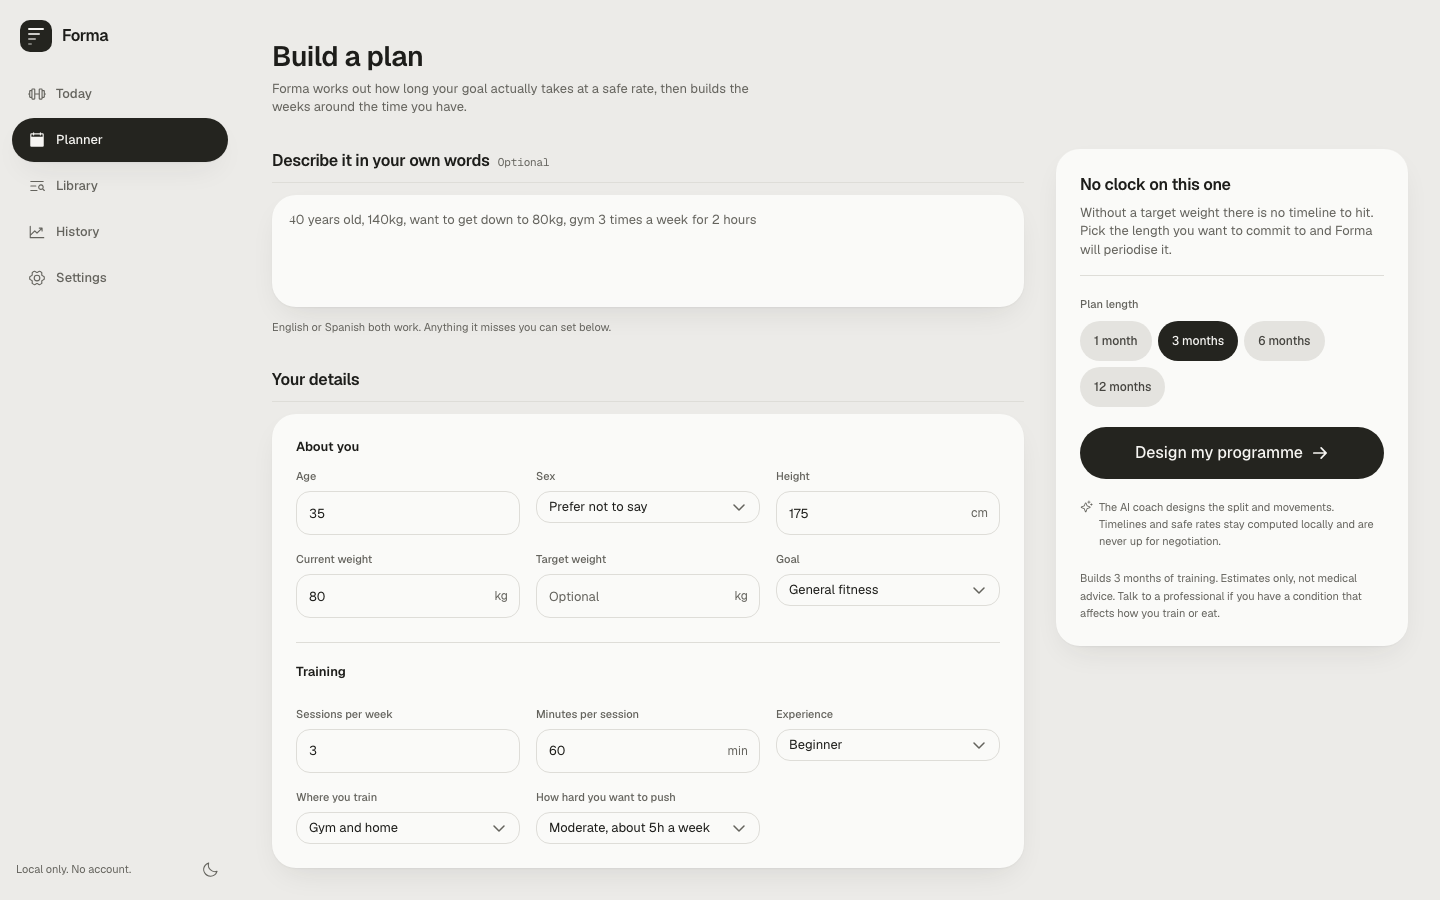
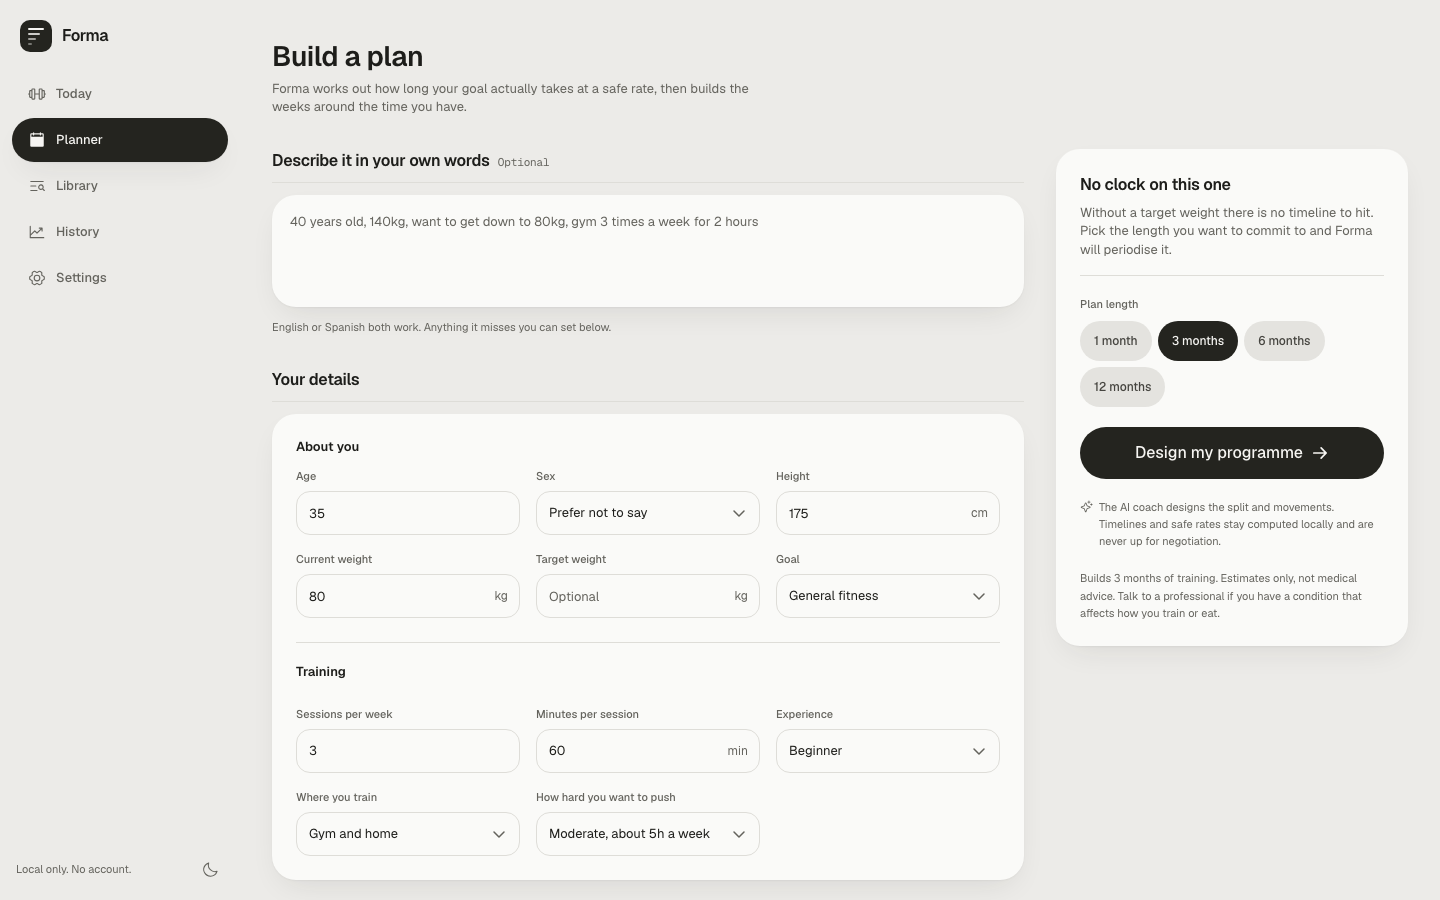
fix(forms): every control is 44px, measured; textarea glyph clipping cured
Measured with getBoundingClientRect instead of eyeballing: inputs were 44px
while every select rendered at 32px. The vendored select trigger carries
data-[size=default]:h-8, which the h-11 utility on FormSelect could not beat
(tailwind-merge does not merge across variant groups, and the data-variant rule
wins the cascade). Same story on the History picker's h-9 hack.

- The trigger's own sizes now follow the system scale: default 44px, sm 36px.
  FormSelect exposes a size prop instead of fighting with height classes, and
  History uses size="sm". Re-measured: every visible control on the form is
  exactly 44px. This also repairs the same input/select mismatch in Library's
  filter bar and the planner's configure dialog, everywhere selects appear.
- The select trigger also lost its divergent dark:bg-input background; selects
  and inputs now share the same surface in both themes.
- The describe textarea's first glyph sat at 0px from the card edge and
  subpixel-clipped ("male" losing the m's left stem). Text never touches an
  edge now (2px inset), and the vendored textarea's own focus ring and dark
  background are neutralised so the card's focus-within ring is the only one.

Verified at 2x mobile scale: first glyph intact, chips wrap cleanly, rows even.
tsc, oxlint, 43 tests, build and both audit walks pass.

diff --git a/src/components/ui/select.tsx b/src/components/ui/select.tsx
@@ -41,7 +41,7 @@ function SelectTrigger({
       data-slot="select-trigger"
       data-size={size}
       className={cn(
-        "flex w-fit items-center justify-between gap-1.5 rounded-md border border-line bg-surface py-2 pr-2 pl-3 text-sm whitespace-nowrap transition-colors outline-none select-none focus-visible:border-ring focus-visible:ring-3 focus-visible:ring-ring/50 disabled:cursor-not-allowed disabled:opacity-50 aria-invalid:border-destructive aria-invalid:ring-3 aria-invalid:ring-destructive/20 data-placeholder:text-muted-foreground data-[size=default]:h-8 data-[size=sm]:h-7 data-[size=sm]:rounded-md *:data-[slot=select-value]:line-clamp-1 *:data-[slot=select-value]:flex *:data-[slot=select-value]:items-center *:data-[slot=select-value]:gap-1.5 dark:bg-input/30 dark:hover:bg-input/50 dark:aria-invalid:border-destructive/50 dark:aria-invalid:ring-destructive/40 [&_svg]:pointer-events-none [&_svg]:shrink-0 [&_svg:not([class*='size-'])]:size-4",
+        "flex w-fit items-center justify-between gap-1.5 rounded-md border border-line bg-surface py-2 pr-2 pl-3 text-sm whitespace-nowrap transition-colors outline-none select-none focus-visible:border-ring focus-visible:ring-3 focus-visible:ring-ring/50 disabled:cursor-not-allowed disabled:opacity-50 aria-invalid:border-destructive aria-invalid:ring-3 aria-invalid:ring-destructive/20 data-placeholder:text-muted-foreground data-[size=default]:h-11 data-[size=sm]:h-9 data-[size=sm]:rounded-md *:data-[slot=select-value]:line-clamp-1 *:data-[slot=select-value]:flex *:data-[slot=select-value]:items-center *:data-[slot=select-value]:gap-1.5 dark:aria-invalid:border-destructive/50 dark:aria-invalid:ring-destructive/40 [&_svg]:pointer-events-none [&_svg]:shrink-0 [&_svg:not([class*='size-'])]:size-4",
         className
       )}
       {...props}

diff --git a/src/ui/FormSelect.tsx b/src/ui/FormSelect.tsx
@@ -18,6 +18,8 @@ interface FormSelectProps {
   label?: string
   placeholder?: string
   ariaLabel?: string
+  /** md matches Input (44px); sm matches the small button row (36px). */
+  size?: 'md' | 'sm'
   className?: string
   contentClassName?: string
 }
@@ -29,6 +31,7 @@ export function FormSelect({
   label,
   placeholder = 'Select',
   ariaLabel,
+  size = 'md',
   className,
   contentClassName,
 }: FormSelectProps) {
@@ -38,8 +41,9 @@ export function FormSelect({
     <ShadcnSelectRoot value={value || null} onValueChange={(v) => onValueChange(String(v ?? ''))}>
       <SelectTrigger
         aria-label={ariaLabel ?? label}
+        size={size === 'sm' ? 'sm' : 'default'}
         className={cn(
-          'h-11 w-full rounded-md border-line bg-surface px-3 text-sm text-ink',
+          'w-full rounded-md border-line bg-surface px-3 text-sm text-ink',
           'hover:border-line-strong focus:border-brand',
           className,
         )}

diff --git a/src/routes/Onboarding.tsx b/src/routes/Onboarding.tsx
@@ -124,7 +124,7 @@ export function OnboardingPage() {
                 rows={3}
                 placeholder="40 years old, 140kg, want to get down to 80kg, gym 3 times a week for 2 hours"
                 aria-label="Describe your situation"
-                className="min-h-20 w-full resize-none border-0 bg-transparent p-0 text-sm shadow-none focus:ring-0 focus-visible:outline-none"
+                className="min-h-20 w-full resize-none border-0 bg-transparent px-0.5 py-0 text-sm leading-relaxed shadow-none focus-visible:border-0 focus-visible:ring-0 focus-visible:outline-none dark:bg-transparent"
               />
 
               {text.trim().length > 0 && (

diff --git a/src/routes/History.tsx b/src/routes/History.tsx
@@ -176,7 +176,8 @@ function StrengthChart() {
             onValueChange={setSelectedId}
             options={options}
             ariaLabel="Movement to chart"
-            className="h-9 w-52 text-xs"
+            size="sm"
+            className="w-52 text-xs"
           />
         ) : undefined
       }
